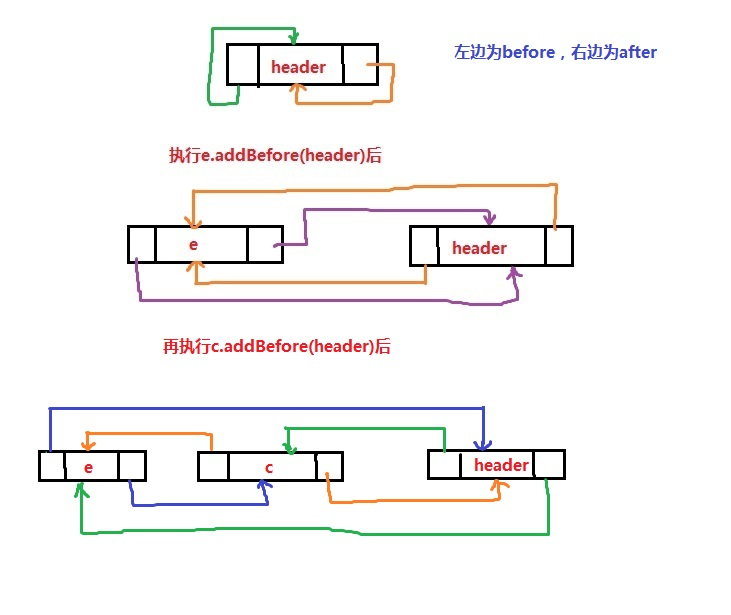
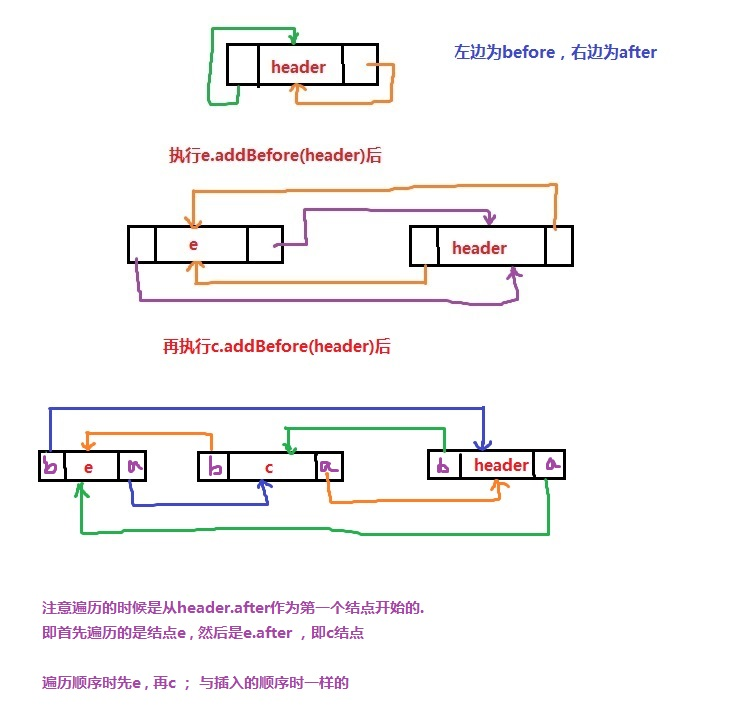
0726

diff --git a/blog/2016/07/26/linkedhashmap/index.html b/blog/2016/07/26/linkedhashmap/index.html
@@ -589,8 +589,14 @@ public class LinkedHashMap&lt;K,V&gt; extends HashMap&lt;K,V&gt; implements Map&
 <span class='line-number'>34</span>
 <span class='line-number'>35</span>
 <span class='line-number'>36</span>
+<span class='line-number'>37</span>
+<span class='line-number'>38</span>
+<span class='line-number'>39</span>
+<span class='line-number'>40</span>
 </pre></td><td class='code'><pre><code class='java'><span class='line'><span class="kd">private</span> <span class="kd">abstract</span> <span class="kd">class</span> <span class="nc">LinkedHashIterator</span><span class="o">&lt;</span><span class="n">T</span><span class="o">&gt;</span> <span class="kd">implements</span> <span class="n">Iterator</span><span class="o">&lt;</span><span class="n">T</span><span class="o">&gt;</span>
 </span><span class='line'><span class="o">{</span>
+</span><span class='line'>    <span class="c1">//第一个结点是从header结点after所指结点.</span>
+</span><span class='line'>    <span class="c1">//header作为双向链表的头一个结点，那么是从双向链表的最后一个结点开始遍历的.</span>
 </span><span class='line'>    <span class="n">Entry</span><span class="o">&lt;</span><span class="n">K</span><span class="o">,</span><span class="n">V</span><span class="o">&gt;</span> <span class="n">nextEntry</span>    <span class="o">=</span> <span class="n">header</span><span class="o">.</span><span class="na">after</span><span class="o">;</span>
 </span><span class='line'>    <span class="n">Entry</span><span class="o">&lt;</span><span class="n">K</span><span class="o">,</span><span class="n">V</span><span class="o">&gt;</span> <span class="n">lastReturned</span> <span class="o">=</span> <span class="kc">null</span><span class="o">;</span>
 </span><span class='line'>
@@ -621,6 +627,8 @@ public class LinkedHashMap&lt;K,V&gt; extends HashMap&lt;K,V&gt; implements Map&
 </span><span class='line'>            <span class="k">throw</span> <span class="k">new</span> <span class="nf">NoSuchElementException</span><span class="o">();</span>
 </span><span class='line'>
 </span><span class='line'>        <span class="n">Entry</span><span class="o">&lt;</span><span class="n">K</span><span class="o">,</span><span class="n">V</span><span class="o">&gt;</span> <span class="n">e</span> <span class="o">=</span> <span class="n">lastReturned</span> <span class="o">=</span> <span class="n">nextEntry</span><span class="o">;</span>
+</span><span class='line'>
+</span><span class='line'>
 </span><span class='line'>        <span class="n">nextEntry</span> <span class="o">=</span> <span class="n">e</span><span class="o">.</span><span class="na">after</span><span class="o">;</span>
 </span><span class='line'>        <span class="k">return</span> <span class="n">e</span><span class="o">;</span>
 </span><span class='line'>    <span class="o">}</span>

diff --git a/index.html b/index.html
@@ -592,8 +592,14 @@ public class LinkedHashMap&lt;K,V&gt; extends HashMap&lt;K,V&gt; implements Map&
 <span class='line-number'>34</span>
 <span class='line-number'>35</span>
 <span class='line-number'>36</span>
+<span class='line-number'>37</span>
+<span class='line-number'>38</span>
+<span class='line-number'>39</span>
+<span class='line-number'>40</span>
 </pre></td><td class='code'><pre><code class='java'><span class='line'><span class="kd">private</span> <span class="kd">abstract</span> <span class="kd">class</span> <span class="nc">LinkedHashIterator</span><span class="o">&lt;</span><span class="n">T</span><span class="o">&gt;</span> <span class="kd">implements</span> <span class="n">Iterator</span><span class="o">&lt;</span><span class="n">T</span><span class="o">&gt;</span>
 </span><span class='line'><span class="o">{</span>
+</span><span class='line'>    <span class="c1">//第一个结点是从header结点after所指结点.</span>
+</span><span class='line'>    <span class="c1">//header作为双向链表的头一个结点，那么是从双向链表的最后一个结点开始遍历的.</span>
 </span><span class='line'>    <span class="n">Entry</span><span class="o">&lt;</span><span class="n">K</span><span class="o">,</span><span class="n">V</span><span class="o">&gt;</span> <span class="n">nextEntry</span>    <span class="o">=</span> <span class="n">header</span><span class="o">.</span><span class="na">after</span><span class="o">;</span>
 </span><span class='line'>    <span class="n">Entry</span><span class="o">&lt;</span><span class="n">K</span><span class="o">,</span><span class="n">V</span><span class="o">&gt;</span> <span class="n">lastReturned</span> <span class="o">=</span> <span class="kc">null</span><span class="o">;</span>
 </span><span class='line'>
@@ -624,6 +630,8 @@ public class LinkedHashMap&lt;K,V&gt; extends HashMap&lt;K,V&gt; implements Map&
 </span><span class='line'>            <span class="k">throw</span> <span class="k">new</span> <span class="nf">NoSuchElementException</span><span class="o">();</span>
 </span><span class='line'>
 </span><span class='line'>        <span class="n">Entry</span><span class="o">&lt;</span><span class="n">K</span><span class="o">,</span><span class="n">V</span><span class="o">&gt;</span> <span class="n">e</span> <span class="o">=</span> <span class="n">lastReturned</span> <span class="o">=</span> <span class="n">nextEntry</span><span class="o">;</span>
+</span><span class='line'>
+</span><span class='line'>
 </span><span class='line'>        <span class="n">nextEntry</span> <span class="o">=</span> <span class="n">e</span><span class="o">.</span><span class="na">after</span><span class="o">;</span>
 </span><span class='line'>        <span class="k">return</span> <span class="n">e</span><span class="o">;</span>
 </span><span class='line'>    <span class="o">}</span>
